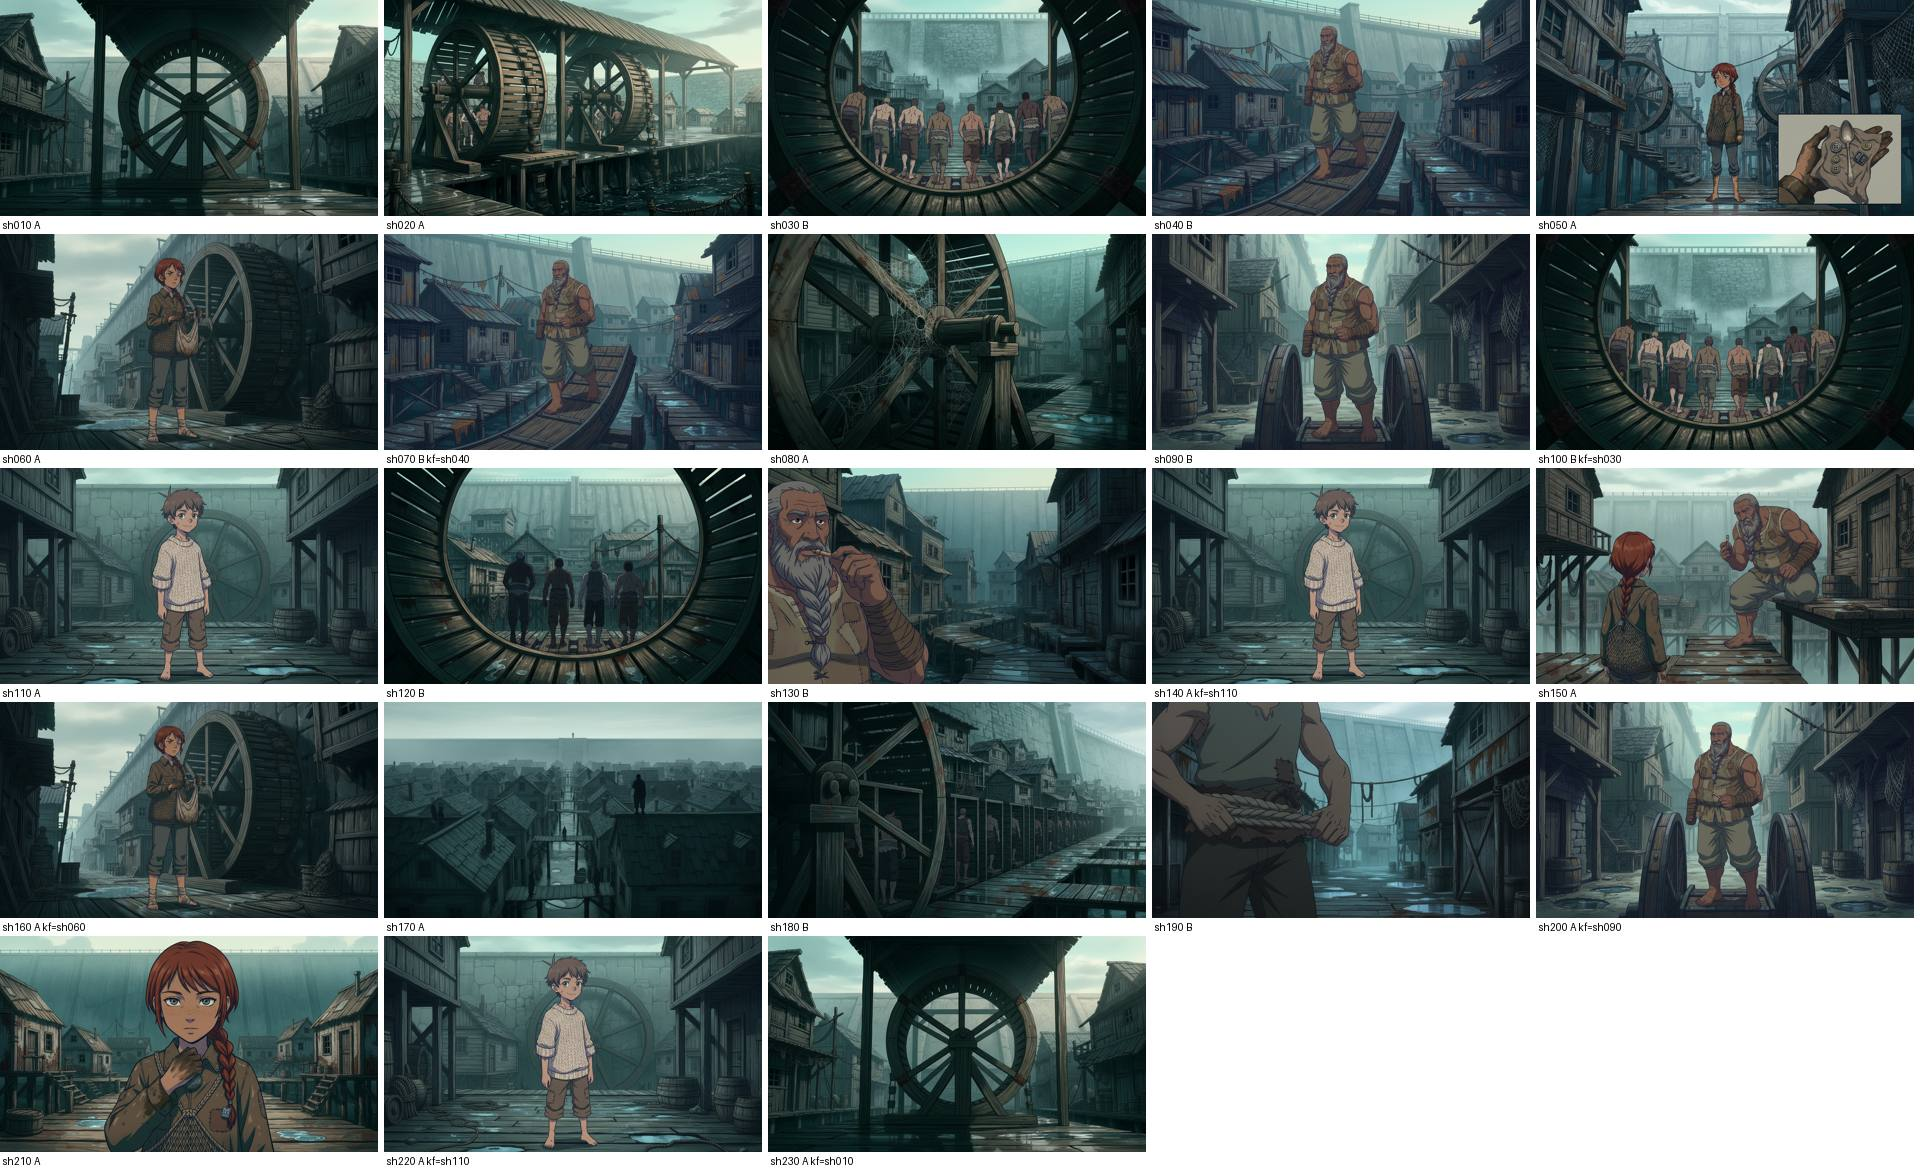
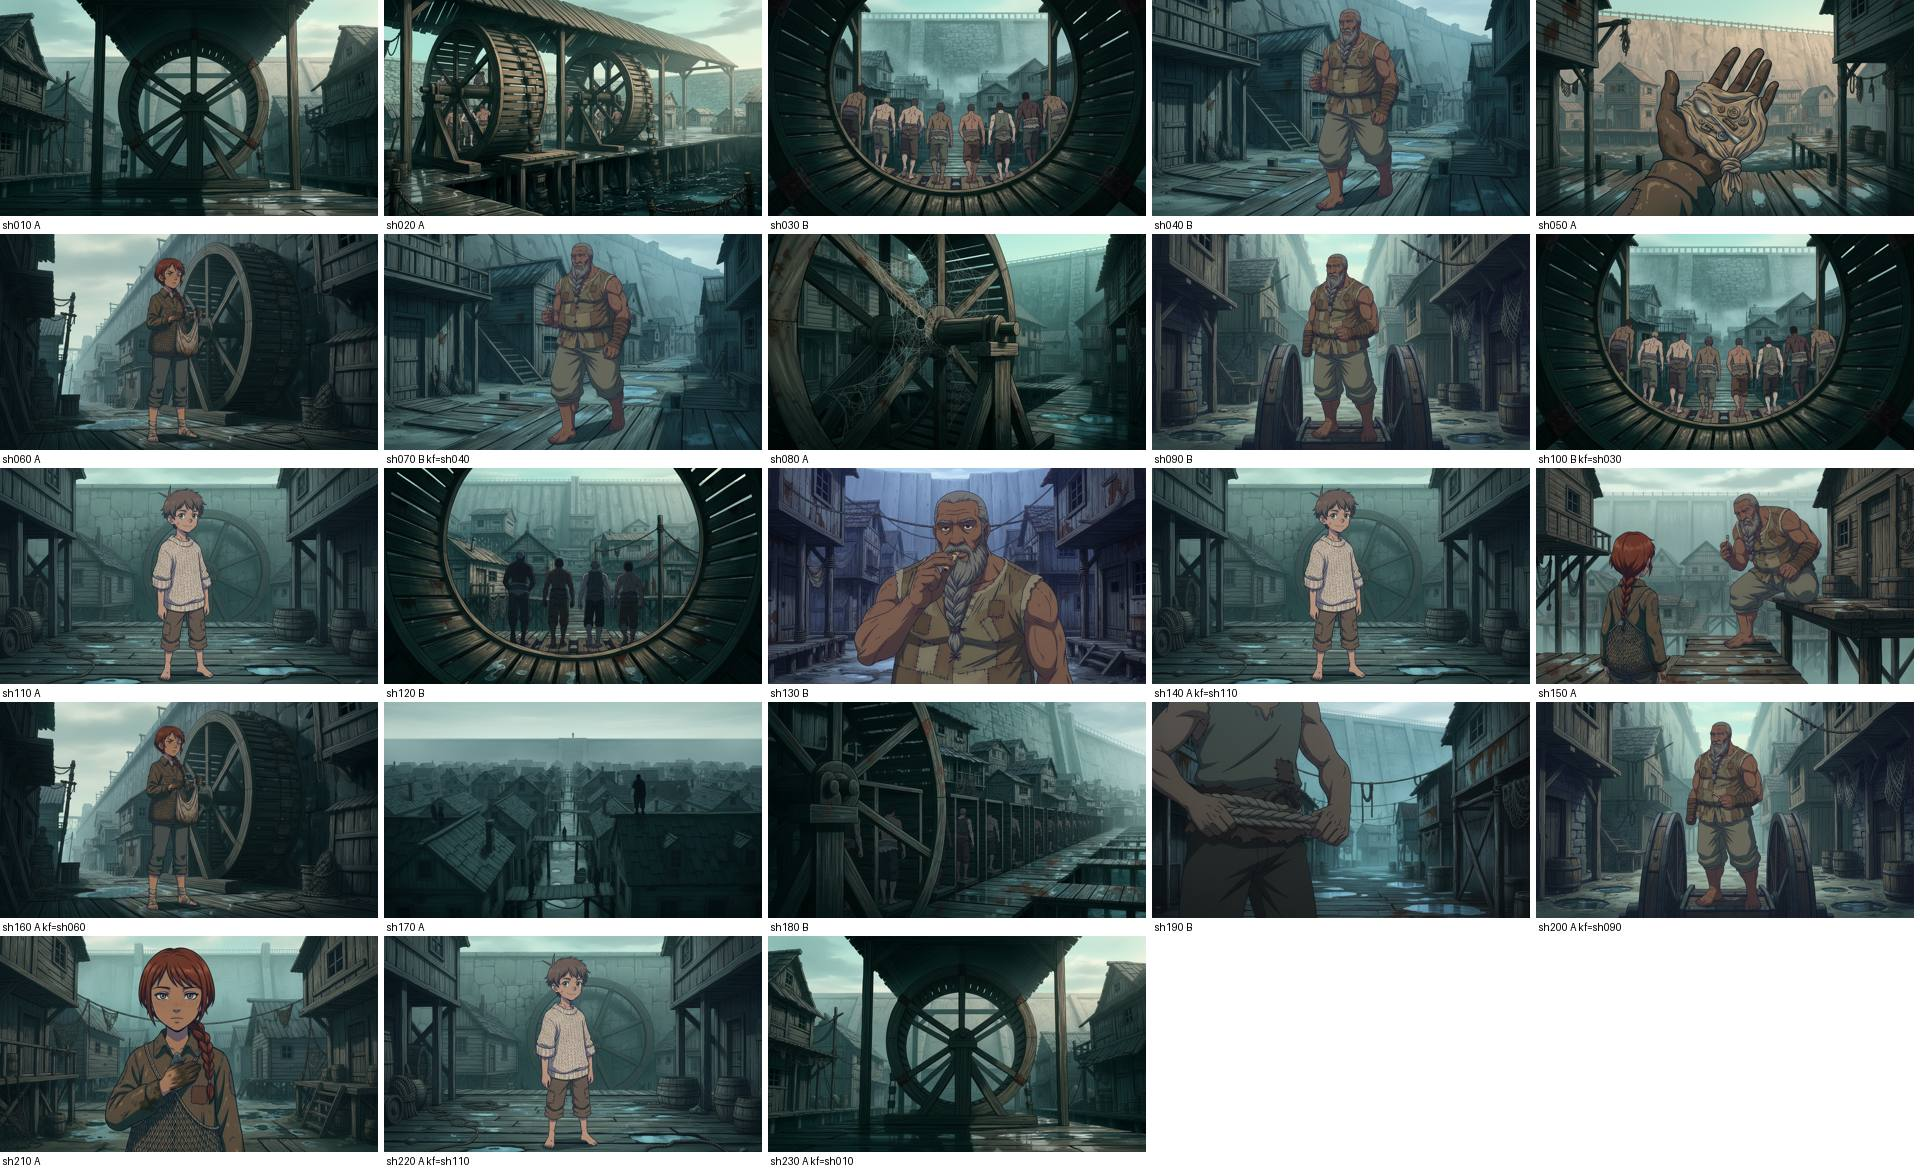
Animatic S01E01: frames complete, review retakes, end poses, progress checklist
Claude-Session: https://claude.ai/code/session_015MBdE68eFnRu1P9FZ1Av2S

diff --git a/studio/direction/animatic_tools/frames.py b/studio/direction/animatic_tools/frames.py
@@ -194,6 +194,31 @@ def expand(text):
     return re.sub(r"\{([A-Z_]+)\}", rep, text or "")
 
 
+_PELL_SIDE = ("Her single braid hangs on the RIGHT side of the picture; the left side of the picture has only short hair "
+              "(no braid on the left side of the picture). The blue tin tag is tied to the braid tip, not on her clothes. ")
+_ONE = "One single full-frame image: no inset, no picture-in-picture, no letterbox bars, no frames or boxes drawn on top. "
+# Review 2026-11-24 (contact sheets): corrective additions for frames that failed review. Quality only.
+EXTRA = {
+    "sc01-sh070": "The eyes are drawn as part of the gate scene, seen through the gap in the wood, not a pasted square: a close-up of dark wet wooden gate leaves filling the frame, the narrow vertical gap in the middle, the eyes visible deep inside the gap, partly shadowed by the wood edges. " + _ONE,
+    "sc01-sh100": "Nothing glows except the faint distant lantern; no glowing cracks or lines, no tentacle shapes; only dark drifting cloth. " + _ONE,
+    "sc02-sh020": _ONE + "Only the fist, sleeve and doorpost fill the frame; no face. ",
+    "sc02-sh130": _PELL_SIDE, "sc02-sh140": _PELL_SIDE, "sc03-sh110": _PELL_SIDE, "sc03-sh180": _PELL_SIDE,
+    "sc03-sh130": "Close insert: only the rake head, weed and water; no people anywhere. ",
+    "sc03-sh150": "Close insert under the water surface: only the rake head, the cord and the handle; no people anywhere. ",
+    "sc04-sh220": _PELL_SIDE, "sc04-sh240": _PELL_SIDE, "sc06-sh210": _PELL_SIDE, "sc15a-sh050": _PELL_SIDE,
+    "sc20-sh170": _PELL_SIDE + "Her face is clean: no lines, marks or light patterns on her skin. ",
+    "sc06-sh050": _ONE + "Close insert: the hand and the open rag fill the frame; no full figure. ",
+    "sc06-sh040": "Corr is seen from the front: on the RIGHT side of the picture his forearm ends in a leather-wrapped stump with no hand. ",
+    "sc06-sh130": "The reed whistle is held in his only hand (his right hand, LEFT side of the picture); his other forearm ends in a leather-wrapped stump with no hand. ",
+    "sc09-sh110": "Close on hands and lap only; no tag on her jacket. ",
+    "sc10-sh130": _ONE, "sc10-sh180": _ONE, "sc12-sh270": _ONE, "sc13-sh090": _ONE, "sc17-sh020": _ONE,
+    "sc14-sh180": "Close insert: the glass of water fills the frame; nothing glows, no glowing rings. ",
+    "sc15-sh160": "Close top-down insert on the ledger page on a desk; the brass clip lies on the page. ",
+    "sc20-sh140": "Medium close-up framed on her lap and closed fist only; face cropped out of frame. ",
+    "sc20-sh150": "Extreme macro: the open palm and the tiny stone fill the whole frame; no face, no braid, no jacket visible. ",
+}
+
+
 def prompt_a(shot):
     chars, cimgs, loc, props = resolve(shot)
     imgs, legend = [], []
@@ -213,7 +238,7 @@ def prompt_a(shot):
     body = expand(shot["kf"])
     chronicle = "{CHRONICLE}" in (shot["kf"] or "")
     p = ("Create ONE new single frame of a 2D anime TV episode (a finished background with characters, not a model sheet, "
-         "no grid, no panels, no captions). " + " ".join(legend[:len(imgs)]) + " Shot: " + body.rstrip(". ") + ". ")
+         "no grid, no panels, no captions). " + " ".join(legend[:len(imgs)]) + " Shot: " + body.rstrip(". ") + ". " + EXTRA.get(shot["id"], ""))
     if shot["nochar"]:
         p += "The frame is EMPTY of people: no figures, no characters, no faces anywhere (ignore any people in the reference images). "
     if chars:
@@ -227,8 +252,16 @@ def prompt_a(shot):
     return p, imgs
 
 
+EXTRA_B = {  # review corrections for end poses
+    "sc01-sh010": "There is exactly ONE cradle in the frame, the same single cradle, moved a little further along the water. ",
+    "sc19-sh110": "The girl appears only ONCE in the frame; no duplicate of any person. ",
+    "sc20-sh150": "The stone stays pure matte black; nothing glows, no orange or golden light inside the stone or the crack. ",
+    "sc20-sh170": "Her face and skin stay clean: no glowing lines, cracks or light patterns on her face; nothing glows. ",
+}
+
+
 def prompt_b(shot):
-    mot = shot["mot"] or shot["act"]
+    mot = (shot["mot"] or shot["act"]) + " " + EXTRA_B.get(shot["id"], "")
     return ("Image 1 is a frame from a 2D anime episode. Draw the SAME shot a few seconds later: same camera, framing, location, "
             "light, characters, faces, outfits and art style; change only the pose to the END of this action: " + expand(mot) +
             " Keep every asymmetric detail on the same side. No text. " + AVOID)

diff --git a/studio/direction/animatic_progress.md b/studio/direction/animatic_progress.md
@@ -1,0 +1,17 @@
+# S01E01 animatic v1 — progress checklist (resume file)
+
+Updated: 2026-11-24 (resume after container restart). Tools: `studio/direction/animatic_tools/`. Outputs: `output/S01E01/animatic/`.
+Budget guard: `STUDIO_ALLOW_PAID=1 BUDGET_LIMIT_USD=70`. Studio total at resume: $47.11.
+
+| # | Step | Status | How to resume |
+|---|---|---|---|
+| 0 | Draft VO + timed shot list (451 shots, 28:19) | DONE | — |
+| 1a | Frames `_a` (one per non-reuse shot, 327) | DONE 327/327 (sc02-sh050, sc04-sh180 refused by fal content checker -> $0 placeholders copied from sc02-sh200/sc04-sh070; director decision) | — |
+| 1b | Contact-sheet review vs §11 + concept-artist flaws | DONE: 27 `_a` retaken (EXTRA dict in frames.py), 4 needed retry 2; sc01-sh070 kept r0; rejects in `frames_rejected/` | — |
+| 1c | End poses `_b` for C/D (48) | DONE 47/47 (+5 retakes: sc01-sh010, sc19-sh110 x2, sc20-sh150, sc20-sh170) | — |
+| 2a | MiniMax drafts class D (+6 hero C) | TODO | `drafts.py run` |
+| 2b | LA render 720p | sc03 only (pre-review) | `la.py` (re-render all with `--force` after 1b/1c/2a) |
+| 3 | SFX (ElevenLabs) + synth | DONE (SFX 2,311 credits this run; account usage 14,860) | — |
+| 4 | Spec + assemble + overlay | spec v1 built (pre-frames); TODO rebuild | `spec.py build && spec.py assemble && spec.py overlay` |
+| 5 | R2 upload | TODO | |
+| 6 | Notes `S01E01_animatic_v1_notes.md`, report, HANDOFF | TODO | |
